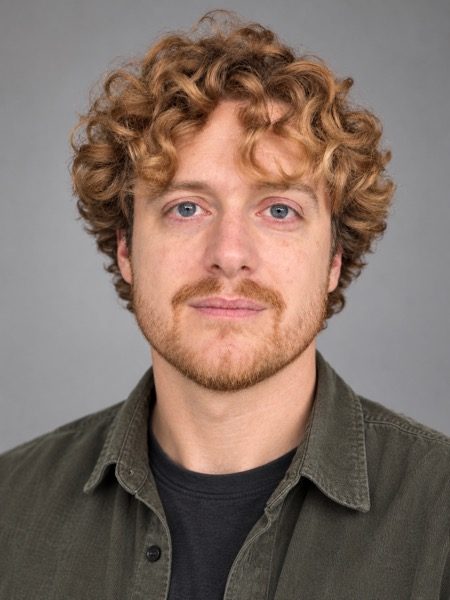
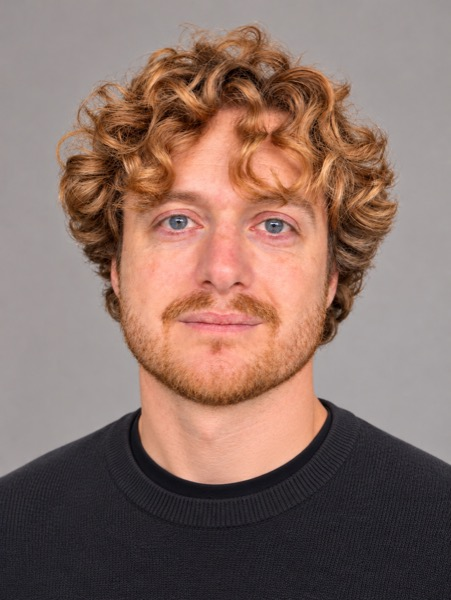
Restore homepage front matter wiped by Pages CMS save; protect front matter via hidden fields in .pages.yml; new profile photo

diff --git a/index.md b/index.md
@@ -1,7 +1,6 @@
 ---
----
----
-
+layout: home
+permalink: /
 ---
 
 I am a macroeconomist fascinated by one question: *how can economies decarbonize without undermining their public finances?* I pursue this question as a PhD researcher at Ghent University, where I held a FWO doctoral fellowship (2021–2025); my PhD defence is expected in 2027. Before the PhD I studied economics at Ghent University and UCLouvain.
